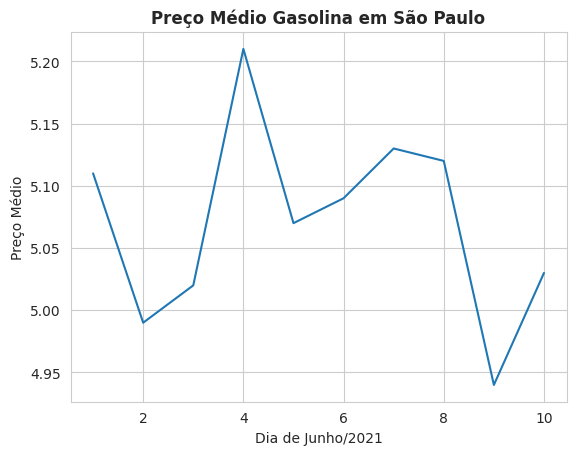
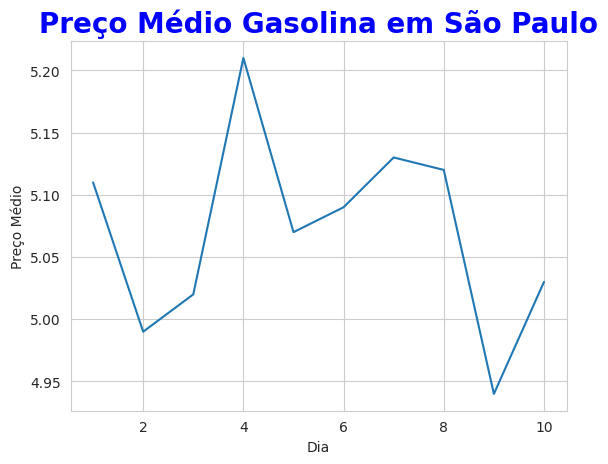
arquivos gasolina.csv, gasolina.png e gasolina.py modificados

diff --git a/gasolina.py b/gasolina.py
@@ -10,7 +10,7 @@ gasolina_df = pd.read_csv('gasolina.csv', sep=',')
 #cria o grafico com base no dataframe e salva no formato .png
 sns.set_style('whitegrid')
 grafico = sns.lineplot(x='dia',y='venda', data=gasolina_df)
-plt.title('Preço Médio Gasolina em São Paulo', fontsize =12, fontweight ="bold")
-plt.xlabel('Dia de Junho/2021')
+plt.title('Preço Médio Gasolina em São Paulo', fontsize =20, fontweight ="bold", color='blue')
+plt.xlabel('Dia')
 plt.ylabel('Preço Médio')
 plt.savefig(fname='gasolina.png', bbox_inches ="tight")
